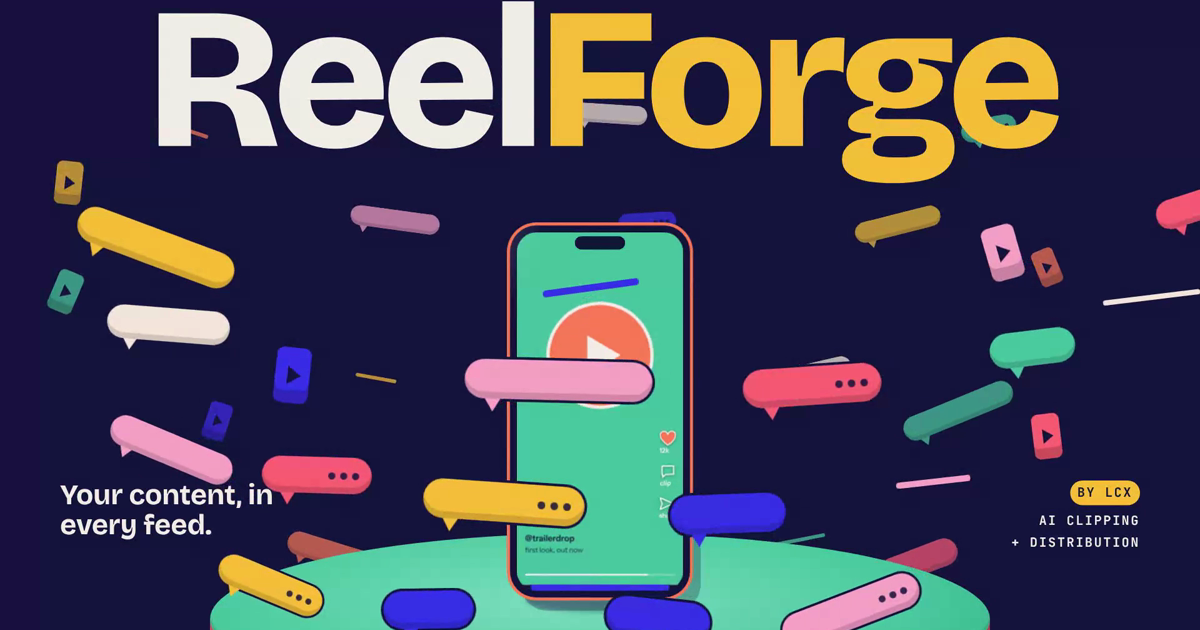
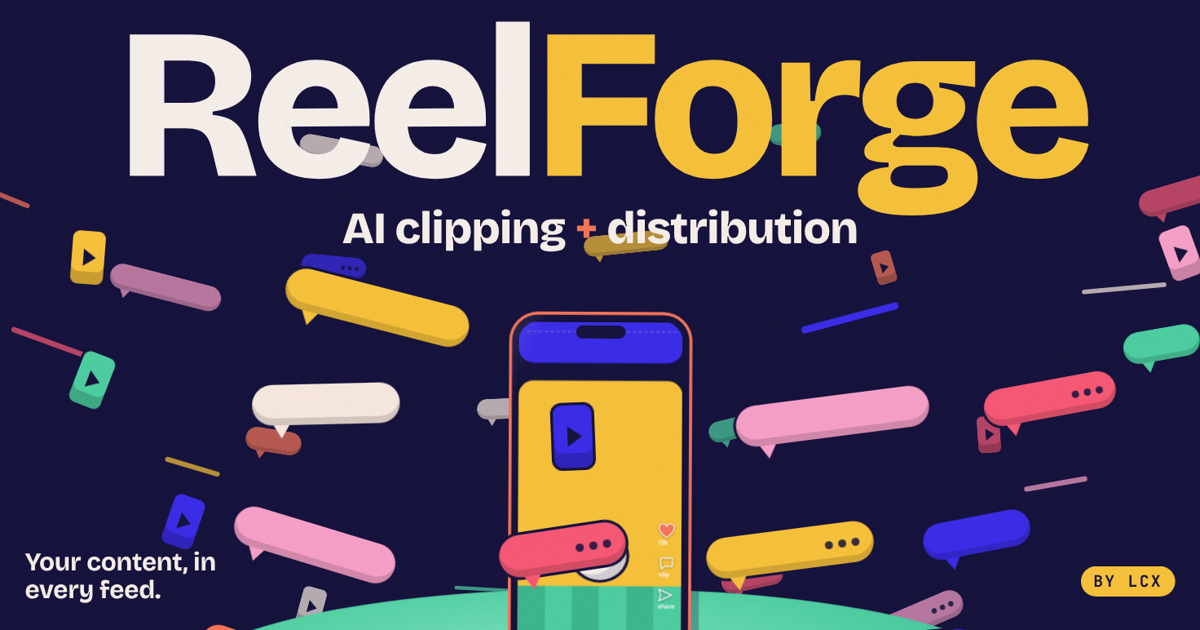
Update deck: clearer cover, merge distribution data into The problem, new headlines, new contact slide
Claude-Session: https://claude.ai/code/session_01P4ddEQbGd7QyoDbn9rq9Td

diff --git a/index.html b/index.html
@@ -5,7 +5,7 @@
 <meta name="viewport" content="width=device-width, initial-scale=1, viewport-fit=cover">
 <meta name="description" content="ReelForge by LCX: AI clipping and distribution that puts your content in every feed.">
 <meta property="og:title" content="ReelForge by LCX">
-<meta property="og:description" content="Your content, in every feed.">
+<meta property="og:description" content="AI clipping + distribution. Your content, in every feed.">
 <meta property="og:image" content="/og-image.png">
 <meta name="twitter:card" content="summary_large_image">
 <link rel="preload" href="fonts/bricolage-grotesque-latin-wght-normal.woff2" as="font" type="font/woff2" crossorigin>
@@ -79,14 +79,16 @@ h2 em{font-style:normal;color:var(--acc)}
 .slide.s1{z-index:auto}
 .s1 .title{left:0;top:22px;width:1600px;text-align:center;font-size:268px;line-height:.85;letter-spacing:-.05em;margin:0;z-index:10;color:var(--paper)}
 .s1 .title span{color:var(--butter)}
-.s1 .tag1{left:80px;top:670px;width:300px;margin:0;z-index:35;font-family:var(--f-display);font-weight:700;font-size:38px;line-height:1.05;letter-spacing:-.01em}
-.s1 .tag2{left:1240px;top:670px;width:280px;z-index:35;text-align:right;font-family:var(--f-mono);font-weight:700;font-size:17px;letter-spacing:.12em;text-transform:uppercase;line-height:1.7}
-.s1 .tag2 b{display:inline-block;background:var(--butter);color:var(--ink);padding:2px 10px;border-radius:999px;margin-bottom:6px}
+.s1 .what{left:0;top:262px;width:1600px;margin:0;z-index:35;text-align:center;font-family:var(--f-display);font-weight:800;font-size:56px;line-height:1;letter-spacing:-.02em;color:var(--paper)}
+.s1 .what span{color:var(--coral)}
+.s1 .tag1{left:80px;top:690px;width:300px;margin:0;z-index:35;font-family:var(--f-display);font-weight:700;font-size:32px;line-height:1.08;letter-spacing:-.01em}
+.s1 .tag2{left:1240px;top:712px;width:280px;z-index:35;text-align:right;font-family:var(--f-mono);font-weight:700;font-size:20px;letter-spacing:.12em;text-transform:uppercase}
+.s1 .tag2 b{display:inline-block;background:var(--butter);color:var(--ink);padding:6px 16px;border-radius:999px}
 #pedestal{position:absolute;left:280px;top:740px;width:1040px;height:400px;z-index:6;pointer-events:none;transform:translateY(440px);transition:transform .7s cubic-bezier(.6,0,.8,.3)}
 #stage[data-slide="1"] #pedestal{transform:none;transition:transform .65s cubic-bezier(.25,1.2,.4,1) .3s}
 #pedestal .side{position:absolute;left:0;right:0;top:115px;bottom:0;background:linear-gradient(90deg,#D9485F,#FF5C7A 42%,#E14E68 75%,#B83A55)}
 #pedestal .top{position:absolute;left:0;top:0;width:1040px;height:230px;border-radius:50%;background:radial-gradient(ellipse at 45% 40%,#86EBC9,#4FD6A6 58%,#33AE85);box-shadow:inset 0 -8px 0 rgba(0,0,0,.1)}
-#pedestal .shadow{position:absolute;left:420px;top:70px;width:200px;height:36px;border-radius:50%;background:rgba(22,19,63,.32);filter:blur(3px)}
+#pedestal .shadow{position:absolute;left:420px;top:100px;width:200px;height:36px;border-radius:50%;background:rgba(22,19,63,.32);filter:blur(3px)}
 .vb{position:absolute;left:0;top:0;pointer-events:none;opacity:0;will-change:transform,opacity}
 .vb.pill{height:46px;border-radius:23px;display:flex;align-items:center;justify-content:flex-end;gap:6px;padding:0 16px;box-sizing:border-box;box-shadow:inset 0 -8px 0 rgba(0,0,0,.14), 0 0 0 3px #16133F}
 .vb.pill i{width:9px;height:9px;border-radius:50%;background:#16133F;opacity:.85}
@@ -114,6 +116,17 @@ h2 em{font-style:normal;color:var(--acc)}
 .statrow{display:flex;gap:18px;margin-top:30px;font-size:22px;flex-wrap:wrap}
 
 /* problem */
+.s6 h2{font-size:76px}
+.s6 .life{margin-top:26px;height:96px}
+.s6 .life .quiet{top:80px;font-size:19px}
+.why-l{margin-top:22px;font-family:var(--f-mono);font-size:16px;font-weight:700;letter-spacing:.14em;text-transform:uppercase}
+.why{display:grid;grid-template-columns:repeat(3,1fr);gap:14px;margin-top:12px;max-width:900px}
+.why div{border:4px solid var(--ink);border-radius:20px;padding:16px 18px 14px;color:var(--ink);display:flex;flex-direction:column}
+.why div:nth-child(1){background:var(--paper)}.why div:nth-child(2){background:var(--coral)}.why div:nth-child(3){background:var(--butter)}
+.why b{font-family:var(--f-display);font-weight:800;font-size:52px;line-height:1;letter-spacing:-.03em}
+.why p{margin:8px 0 10px;font-size:18px;line-height:1.3}
+.why small{margin-top:auto;font-family:var(--f-mono);font-size:12px;font-weight:700;letter-spacing:.1em;text-transform:uppercase;opacity:.7}
+.why-end{margin:18px 0 0;font-size:21px;line-height:1.35;max-width:880px;font-weight:500}
 .life{margin-top:40px;max-width:820px;position:relative;height:120px}
 .life .bar{position:absolute;left:0;right:0;top:50px;height:22px;border-radius:999px;background:rgba(22,19,63,.15)}
 .life .fill{position:absolute;left:0;top:50px;height:22px;border-radius:999px;background:var(--coral);width:0}
@@ -125,7 +138,7 @@ h2 em{font-style:normal;color:var(--acc)}
 
 /* what */
 .s7 .colL{left:110px;top:96px;width:470px}
-.s7 .colL h2{font-size:80px}
+.s7 .colL h2{font-size:78px}
 .s7 .colR{left:1040px;top:300px;width:470px}
 .s7 .colR .lede{margin-top:0;font-size:29px}
 .tagline{margin-top:30px;display:flex;gap:12px;flex-wrap:wrap}
@@ -189,10 +202,21 @@ h2 em{font-style:normal;color:var(--acc)}
 .segs i{display:inline-block;width:34px;height:34px;border-radius:10px;margin-bottom:12px}
 
 /* cta */
-.s12 .colL{left:110px;top:96px;width:480px}
-.s12 .colL h2{font-size:92px}
-.s12 .colR{left:1050px;top:150px;width:470px}
-.s12 .colR h2{font-size:80px;margin-top:0;color:var(--paper)}
+.s12 .colL{left:110px;top:220px;width:500px}
+.s12 .colL h2{font-size:104px;line-height:.92}
+.s12 .colL h2 em{color:var(--paper)}
+.s12 .colR{left:1010px;top:190px;width:540px}
+.s12 .colR .lede{margin-top:0;font-size:27px}
+.card{margin-top:30px;background:var(--ink);color:var(--paper);border-radius:26px;padding:24px 26px 22px;box-shadow:10px 12px 0 rgba(22,19,63,.22)}
+.slide.on .card{transform:rotate(-1.2deg)}
+.card .who{display:flex;gap:16px;align-items:center;padding-bottom:18px;border-bottom:2px dashed rgba(255,248,242,.25)}
+.card .av{width:64px;height:64px;border-radius:50%;background:var(--butter);color:var(--ink);display:grid;place-items:center;font-family:var(--f-display);font-weight:800;font-size:26px;flex:none}
+.card .who b{display:block;font-family:var(--f-display);font-weight:800;font-size:32px;line-height:1}
+.card .who small{display:block;margin-top:6px;font-family:var(--f-mono);font-size:14px;font-weight:700;letter-spacing:.12em;text-transform:uppercase;color:var(--coral)}
+.card .row{display:grid;grid-template-columns:70px 1fr;gap:10px;align-items:baseline;margin-top:16px;font-size:20px;font-weight:500}
+.card .row small{font-family:var(--f-mono);font-size:13px;font-weight:700;letter-spacing:.12em;text-transform:uppercase;opacity:.65}
+.card .row span{overflow-wrap:anywhere}
+.card .row .em{font-size:18px;white-space:nowrap;letter-spacing:-.01em}
 .offer{display:inline-flex;align-items:center;gap:18px;margin-top:40px;background:var(--ink);color:var(--paper);border-radius:999px;padding:14px 32px 14px 14px;font-family:var(--f-display);font-weight:800;font-size:32px}
 .offer i{width:58px;height:58px;border-radius:50%;background:var(--butter);display:grid;place-items:center;font-style:normal;color:var(--ink);font-size:34px;animation:wiggle 1.6s infinite}
 .contact{margin-top:40px;display:grid;grid-template-columns:auto 1fr;gap:10px 24px;font-size:24px}
@@ -410,10 +434,11 @@ h2 em{font-style:normal;color:var(--acc)}
   <div class="ghost" style="left:1465px;top:610px;--r:-9deg;--d:.56s"></div>
 
   <!-- 1 COVER · phone on a pedestal, bubbles orbiting -->
-  <section class="slide C s1" data-bg="ink" data-m="phone" data-p="650,268,0,.8">
+  <section class="slide C s1" data-bg="ink" data-m="phone" data-p="650,320,0,.74">
     <h1 class="abs title">Reel<span>Forge</span></h1>
+    <p class="abs what">AI clipping <span>+</span> distribution</p>
     <p class="abs tag1">Your content, in every feed.</p>
-    <div class="abs tag2"><b>by LCX</b><br>AI clipping<br>+ distribution</div>
+    <div class="abs tag2"><b>by LCX</b></div>
   </section>
 
   <!-- 2 ATTENTION · phone right -->
@@ -438,28 +463,9 @@ h2 em{font-style:normal;color:var(--acc)}
     </div>
   </section>
 
-  <!-- 4 MOAT · laptop -->
-  <section class="slide X s4" data-bg="ink" data-m="laptop" data-p="280,190,0,1">
-    <div class="abs top">
-      <div class="eyebrow"><b>03</b> Distribution is the moat</div>
-      <h2>More to watch. <em>Same hours</em> to watch it.</h2>
-    </div>
-    <div class="abs panel">
-      <div class="p-meta"><i></i>@reelforge · the shift</div>
-      <p class="p-desc">Attention isn't growing. The views, and the ad money, have moved into the feed. Whoever owns reach wins.</p>
-      <div class="p-label">Receipts</div>
-      <div class="receipts">
-        <div><b>6 hrs</b><p>a day is all the media time people have, and it isn't growing.</p><small>Deloitte, 2025</small></div>
-        <div><b>200B</b><p>YouTube Shorts views every day, up from 70B in 2024.</p><small>YouTube, 2025</small></div>
-        <div><b>64%</b><p>of India's digital ad revenue went to search and social in 2025.</p><small>FICCI-EY, 2026</small></div>
-      </div>
-      <div class="capbar">The winners won't be who makes the most content. <span>They'll be who gets seen the most.</span></div>
-    </div>
-  </section>
-
   <!-- 5 WHO WE ARE · phone left -->
   <section class="slide R s5" data-bg="blue" data-m="phone" data-p="175,150,5,1">
-    <div class="eyebrow"><b>04</b> Who we are</div>
+    <div class="eyebrow"><b>03</b> Who we are</div>
     <h2>LCX. TVF's exclusive <em>AI partner.</em></h2>
     <p class="lede">We sit inside the studio behind some of India's most loved streaming shows, and we built ReelForge to take that content everywhere.</p>
     <div class="credits">
@@ -468,26 +474,29 @@ h2 em{font-style:normal;color:var(--acc)}
     <div class="statrow"><span class="ph">[TVF stat: total views]</span><span class="ph">[TVF stat: subscribers]</span><span class="ph">[awards / platforms]</span></div>
   </section>
 
-  <!-- 6 PROBLEM · phone left -->
+  <!-- PROBLEM · phone left -->
   <section class="slide R s6" data-bg="blush" data-m="phone" data-p="185,140,-5,1">
-    <div class="eyebrow"><b>05</b> The problem</div>
+    <div class="eyebrow"><b>04</b> The problem</div>
     <h2>Most long-form gets watched once. <em>Then it vanishes.</em></h2>
     <div class="life">
       <span class="lbl a">Release</span><span class="lbl c">The rest of its life</span>
       <div class="bar"></div><div class="fill"></div>
       <span class="quiet">...silence</span>
     </div>
-    <ul class="pts">
-      <li>Feeds want volume: dozens of clips per episode, every week.</li>
-      <li>Clipping at that scale by hand is slow and expensive.</li>
-    </ul>
+    <div class="why-l">Why it vanishes</div>
+    <div class="why">
+      <div><b>6 hrs</b><p>a day is all the media time people have, and it isn't growing.</p><small>Deloitte, 2025</small></div>
+      <div><b>200B</b><p>YouTube Shorts views every day. The audience lives in the feed now.</p><small>YouTube, 2025</small></div>
+      <div><b>64%</b><p>of India's digital ad revenue went to search and social in 2025.</p><small>FICCI-EY, 2026</small></div>
+    </div>
+    <p class="why-end">Keeping up by hand means dozens of clips per episode, every week. Slow and expensive.</p>
   </section>
 
   <!-- 7 WHAT · phone centre -->
   <section class="slide C s7" data-bg="coral" data-m="phone" data-p="650,140,4,1.1">
     <div class="abs colL">
-      <div class="eyebrow"><b>06</b> What ReelForge is</div>
-      <h2>Your content, everywhere your audience <em style="color:var(--paper)">scrolls.</em></h2>
+      <div class="eyebrow"><b>05</b> What ReelForge is</div>
+      <h2>Content your audience <em style="color:var(--paper)">can't forget.</em></h2>
     </div>
     <div class="abs colR">
       <p class="lede">An AI clipping and distribution service. One episode in, hundreds of feed-ready clips out, posted where they'll be seen.</p>
@@ -498,8 +507,8 @@ h2 em{font-style:normal;color:var(--acc)}
   <!-- 8 HOW · laptop -->
   <section class="slide X s8" data-bg="butter" data-m="laptop" data-p="280,190,0,1">
     <div class="abs top">
-      <div class="eyebrow"><b>07</b> How it works</div>
-      <h2>Four steps. <em>Zero editing bay.</em></h2>
+      <div class="eyebrow"><b>06</b> How it works</div>
+      <h2>You send the episode. <em>We do the rest.</em></h2>
     </div>
     <div class="abs panel">
       <div class="p-meta"><i style="background:var(--butter)"></i>ReelForge Studio · your pipeline</div>
@@ -516,7 +525,7 @@ h2 em{font-style:normal;color:var(--acc)}
   <!-- 9 SERVICES · three phones -->
   <section class="slide C s9" data-bg="blue" data-m="triple" data-p="650,180,0,.9">
     <div class="abs top">
-      <div class="eyebrow"><b>08</b> Our services</div>
+      <div class="eyebrow"><b>07</b> Our services</div>
       <h2>Pick your <em>speed.</em></h2>
     </div>
     <p class="abs side">Three ways to run it. Mix and match.</p>
@@ -525,7 +534,7 @@ h2 em{font-style:normal;color:var(--acc)}
 
   <!-- 10 WHO FOR · phone right -->
   <section class="slide s10" data-bg="blush" data-m="phone" data-p="1190,140,4,1">
-    <div class="eyebrow"><b>09</b> Who it's for</div>
+    <div class="eyebrow"><b>08</b> Who it's for</div>
     <h2>Anyone with more content than <em>reach.</em></h2>
     <div class="segs">
       <div><i style="background:var(--blue)"></i><b>OTT platforms</b><p>Turn the back catalogue into a daily feed.</p></div>
@@ -540,7 +549,7 @@ h2 em{font-style:normal;color:var(--acc)}
   <!-- 11 PROOF · laptop -->
   <section class="slide X s11" data-bg="ink" data-m="laptop" data-p="280,190,0,1">
     <div class="abs top">
-      <div class="eyebrow"><b>10</b> Proof</div>
+      <div class="eyebrow"><b>09</b> Proof</div>
       <h2>Don't take our word. <em>Watch.</em></h2>
     </div>
     <div class="abs panel">
@@ -558,22 +567,20 @@ h2 em{font-style:normal;color:var(--acc)}
     </div>
   </section>
 
-  <!-- 12 CTA · phone centre -->
+  <!-- CTA · phone centre -->
   <section class="slide C s12" data-bg="coral" data-m="phone" data-p="650,130,-6,1.12">
     <div class="abs colL">
-      <div class="eyebrow"><b>11</b> Working with us</div>
-      <h2>Send us one episode.</h2>
-      <div class="offer"><i>+</i>Free sample</div>
+      <div class="eyebrow"><b>10</b> Next step</div>
+      <h2>Your first episode is <em>on us.</em></h2>
     </div>
     <div class="abs colR">
-      <h2>We'll clip it free.</h2>
-      <div class="contact">
-        <small>Name</small><span>Upagnya Purigilla, LCX</span>
-        <small>Email</small><span><span class="ph" style="font-size:20px">[work email]</span></span>
-        <small>Phone</small><span><span class="ph" style="font-size:20px">[phone]</span></span>
+      <p class="lede">Send us one episode. We'll turn it into a batch of feed-ready clips, so you can see ReelForge working on your own content.</p>
+      <div class="card">
+        <div class="who"><span class="av">KP</span><div><b>Kartikeya Prakash</b><small>LCX · ReelForge</small></div></div>
+        <div class="row"><small>Email</small><span class="em">Kartipkeyap@lightscameraexperiment.com</span></div>
+        <div class="row"><small>Phone</small><span>+91 95981 95868</span></div>
       </div>
     </div>
-    <svg class="doodle squig" style="left:1060px;top:90px" width="240" height="60" viewBox="0 0 240 60"><path d="M6 40 C30 6, 50 56, 80 28 S130 6, 150 36 S210 50, 234 14" fill="none" stroke="#16133F" stroke-width="6" stroke-linecap="round"/></svg>
   </section>
 
   <div id="pedestal"><div class="side"></div><div class="top"></div><div class="shadow"></div></div>
@@ -653,8 +660,6 @@ const COVER_CARDS = [
     `<div class="reel r-cover"><div class="strip">${COVER_CARDS.map(coverCard).join('')}${coverCard(COVER_CARDS[0])}</div>${ui('','','12k')}</div>`,
     `<div class="reel r-att"><div class="col">${many(10,()=>'<i></i>')}</div><div class="eye"></div>${ui('@everyfeed','you have about a second','8k')}</div>`,
     `<div class="reel r-per"><div class="grid">${many(9,i=>`<i style="animation-delay:${i*.14}s"></i>`)}</div>${ui('@everywhere','wait, this show again?','21k')}</div>`,
-    `<div class="reel r-moat"><div class="core"></div><div class="ring2"></div><div class="ring2"></div><div class="ring2"></div>
-      ${[[40,80],[200,70],[20,280],[220,270],[110,30],[120,350]].map((p,i)=>`<i class="sat" style="left:${p[0]}px;top:${p[1]}px;animation-delay:${i*.25}s"></i>`).join('')}${ui('@reach','distribution beats content','30k')}</div>`,
     `<div class="reel r-who"><div class="clap"><div class="t"></div><div class="b"><div>LCX <span>x</span> TVF</div></div></div>${ui('@lcx','the AI side of TVF','9k')}</div>`,
     `<div class="reel r-prob"><div class="tv"></div><div class="views">1 view · 3 years ago</div><div class="dust">${many(8,i=>`<i style="left:${30+i*28}px;top:${290+(i%3)*20}px;animation-delay:${i*.45}s"></i>`)}</div>${ui('@archive','is anyone still watching?','2')}</div>`,
     `<div class="reel r-what"><div class="long"></div><div class="bits">${many(6,i=>`<i style="animation-delay:${i*.12}s"></i>`)}</div>${ui('@reelforge','1 long video, many reels','18k')}</div>`,
@@ -662,7 +667,7 @@ const COVER_CARDS = [
     CAMPAIGNS,
     `<div class="reel r-seg">${[['OTT',30,80,'#FFC93C'],['Films',150,120,'#FF7A5C'],['Creators',30,190,'#4FD6A6'],['Brands',150,240,'#fff'],['Sports',30,300,'#FFC93C'],['News',150,350,'#FF7A5C']].map((c,i)=>`<span class="chip" style="left:${c[1]}px;top:${c[2]}px;background:${c[3]};animation-delay:${i*.3}s">${c[0]}</span>`).join('')}${ui('@foryou','built for your audience','7k')}</div>`,
     `<div class="reel r-proof"><div class="slot"><div><i></i>DROP PILOT CLIP HERE</div></div>${ui('@tvfpilot','results from the TVF pilot','')}</div>`,
-    `<div class="reel r-cta"><div class="conf">${many(14,i=>`<i style="left:${(i*19)%270}px;background:${['#3D2EF0','#FF7A5C','#16133F','#4FD6A6'][i%4]};animation-delay:${(i*.21)%2.6}s"></i>`)}</div><div class="gift"></div><div class="txt">Free sample<br>episode</div>${ui('@reelforge','send us one, we clip it','∞')}</div>`
+    `<div class="reel r-cta"><div class="conf">${many(14,i=>`<i style="left:${(i*19)%270}px;background:${['#3D2EF0','#FF7A5C','#16133F','#4FD6A6'][i%4]};animation-delay:${(i*.21)%2.6}s"></i>`)}</div><div class="gift"></div>${ui('@yourshow','episode 01, everywhere','∞')}</div>`
   ];
   const feed = document.getElementById('feed');
   feed.innerHTML = reels.join('');
@@ -742,7 +747,7 @@ const COVER_CARDS = [
   }
 
   // the tornado of bubbles around the cover phone
-  const VX = [], CX = 800, PY = 578;
+  const VX = [], CX = 800, PY = 630;
   const VC = ['#3D2EF0','#FF5C7A','#FFF1E6','#FFC93C','#FFA6CF','#4FD6A6','#FF7A5C'];
   [{y:800,R:430,r:70,n:8,spd:.0062},{y:615,R:560,r:92,n:11,spd:.0048},{y:430,R:690,r:112,n:12,spd:.0037},{y:290,R:770,r:120,n:8,spd:.003}].forEach((ring,ri)=>{
     for(let i=0;i<ring.n;i++){
@@ -829,7 +834,7 @@ const COVER_CARDS = [
     clearInterval(stepTimer);
     const cols = [...document.querySelectorAll('#kb .kcol')];
     cols.forEach(c=>c.classList.remove('hot'));
-    if(n===7){ let k=0; const tick=()=>{cols.forEach((c,i)=>c.classList.toggle('hot',i===k)); k=(k+1)%4;}; setTimeout(()=>{ if(cur===7){ tick(); stepTimer=setInterval(tick,1100);} },550); }
+    if(s.classList.contains('s8')){ let k=0; const tick=()=>{cols.forEach((c,i)=>c.classList.toggle('hot',i===k)); k=(k+1)%4;}; setTimeout(()=>{ if(slides[cur]===s){ tick(); stepTimer=setInterval(tick,1100);} },550); }
   }
 
   if(!reduce) setInterval(()=>{
